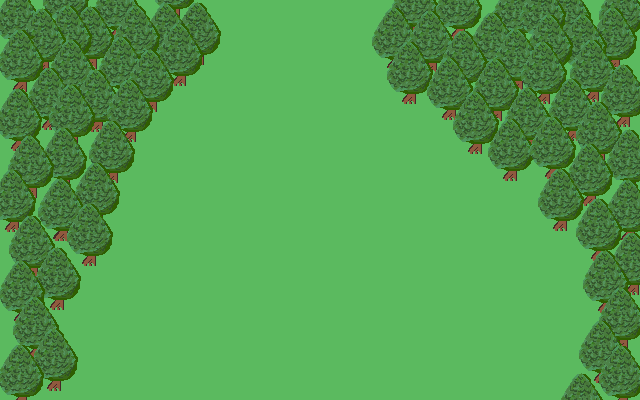
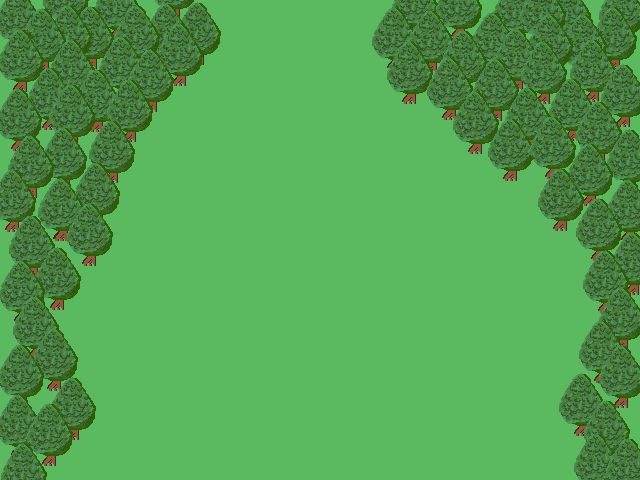
Get background into game

Changed region(s): [[0.5625, 0.0, 1.0, 1.0], [0.0, 0.0, 0.3438, 1.0]]

diff --git a/SnapEncounters/SnapEncountersStates.cs b/SnapEncounters/SnapEncountersStates.cs
@@ -5,6 +5,7 @@ using Spiridios.SpiridiEngine;
 using Spiridios.SpiridiEngine.Audio;
 using Spiridios.SpiridiEngine.Input;
 using Spiridios.SpiridiEngine.Scene;
+using Spiridios.SnapEncounters.Encounters;
 using System;
 using System.Collections.Generic;
 
@@ -12,6 +13,8 @@ namespace Spiridios.SnapEncounters
 {
     public class TitleState : State
     {
+        private Background background;
+
         public TitleState(SpiridiGame game)
             : base(game)
         {
@@ -20,6 +23,11 @@ namespace Spiridios.SnapEncounters
         public override void Initialize()
         {
             base.Initialize();
+
+            // Load the continents 
+            this.game.ImageManager.AddImage("Background", "Background.png");
+
+            this.background = new StaticBackground("Background");
         }
 
         public override void Update(GameTime gameTime)
@@ -31,6 +39,7 @@ namespace Spiridios.SnapEncounters
         {
             base.Draw(gameTime);
 
+            this.background.Draw(game.SpriteBatch);
             int lineHeight = 40;
             int numLines = 6;
             int firstLine = (game.WindowHeight - (numLines * lineHeight)) / 2;
@@ -45,7 +54,7 @@ namespace Spiridios.SnapEncounters
         public override void KeyUp(KeyboardEvent keyState)
         {
             base.KeyUp(keyState);
-            game.NextState = new PlayGameState(game);
+            game.NextState = new PlayGameState(game, this, background);
             game.NextState.Initialize();
         }
 
@@ -53,14 +62,37 @@ namespace Spiridios.SnapEncounters
 
     public class PlayGameState : State
     {
-        public PlayGameState(SpiridiGame game)
+        private Background background;
+        private Encounter encounters;
+        private State titleState;
+
+        public PlayGameState(SpiridiGame game, State titleState, Background background)
             : base(game)
         {
+            this.background = background;
+            this.titleState = titleState;
         }
 
         public override void Initialize()
         {
             base.Initialize();
+            encounters = new ExpositionEncounter("Test Exposition");
         }
+
+        public override void Draw(GameTime gameTime)
+        {
+            base.Draw(gameTime);
+
+            this.background.Draw(game.SpriteBatch);
+            game.DrawFPS();
+        }
+
+        public override void KeyUp(KeyboardEvent keyState)
+        {
+            base.KeyUp(keyState);
+            game.NextState = titleState;
+            game.NextState.Initialize();
+        }
+
     }
 }

diff --git a/SnapEncounters/SnapEncounters.cs b/SnapEncounters/SnapEncounters.cs
@@ -53,8 +53,8 @@ namespace Spiridios.SnapEncounters
         protected override void LoadContent()
         {
             base.LoadContent();
-            this.DefaultTextRenderer = new TextRenderer(this, "TitleScreenFont", new Color(0xaa, 0xaa, 0xaa));
-            this.messageTextRenderer = new TextRenderer(this, "MessageFont", new Color(0xaa, 0xaa, 0xaa));
+            this.DefaultTextRenderer = new TextRenderer(this, "TitleScreenFont", new Color(0x39, 0x2d, 0x59));
+            this.messageTextRenderer = new TextRenderer(this, "MessageFont", new Color(0x39, 0x2d, 0x59));
 
         }
 
